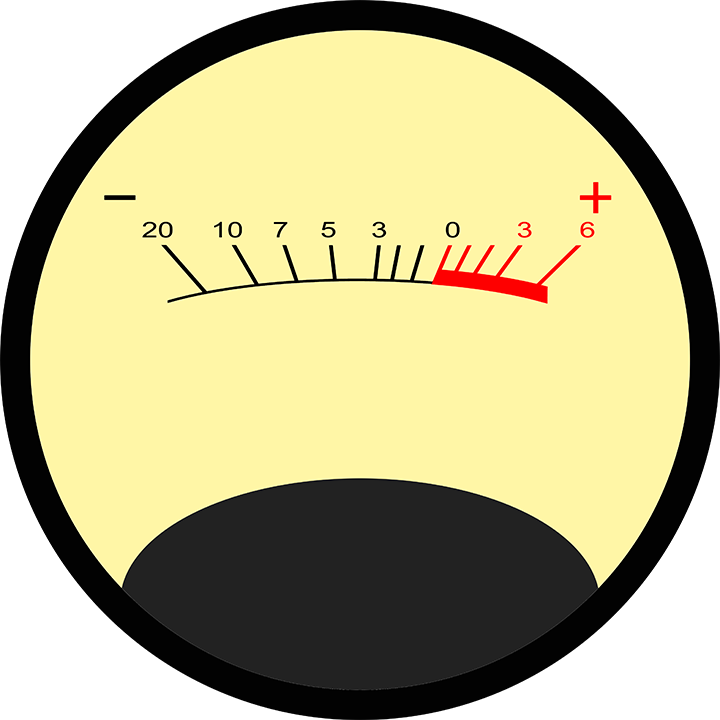
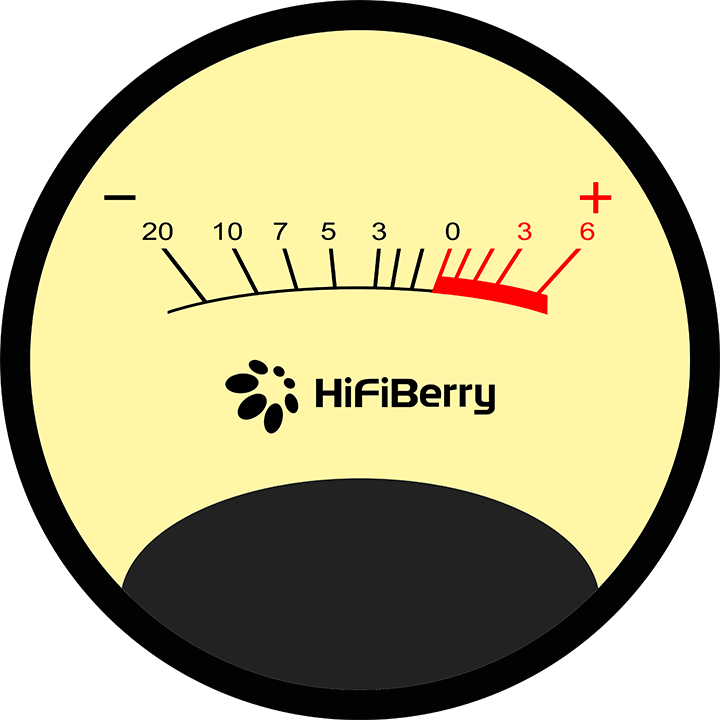
Add new configuration for simple2 VU meter with updated image and needle settings

diff --git a/vu_meter.py b/vu_meter.py
@@ -48,6 +48,23 @@ CONFIGS = {
         # VU level mapping
         "min_db": -20,                       # Minimum dB level for needle display
         "max_db": 6,                         # Maximum dB level for needle display
+    },
+    "simple2": {
+        # Image settings
+        "image_path": "simple-vu2.png",
+        
+        # Needle position and appearance
+        "needle_center_x_percent": 0.50,    # 50% of screen width
+        "needle_center_y_percent": 0.72,    # 72% of screen height
+        "needle_length_percent": 0.50,      # 50% of screen height
+        "needle_min_angle": -35,             # Minimum angle in degrees
+        "needle_max_angle": 18,              # Maximum angle in degrees
+        "needle_width": 3,                   # Needle thickness in pixels
+        "needle_color": (255, 0, 0),         # Red color (R, G, B)
+        
+        # VU level mapping
+        "min_db": -20,                       # Minimum dB level for needle display
+        "max_db": 6,                         # Maximum dB level for needle display
     }
 }
 
